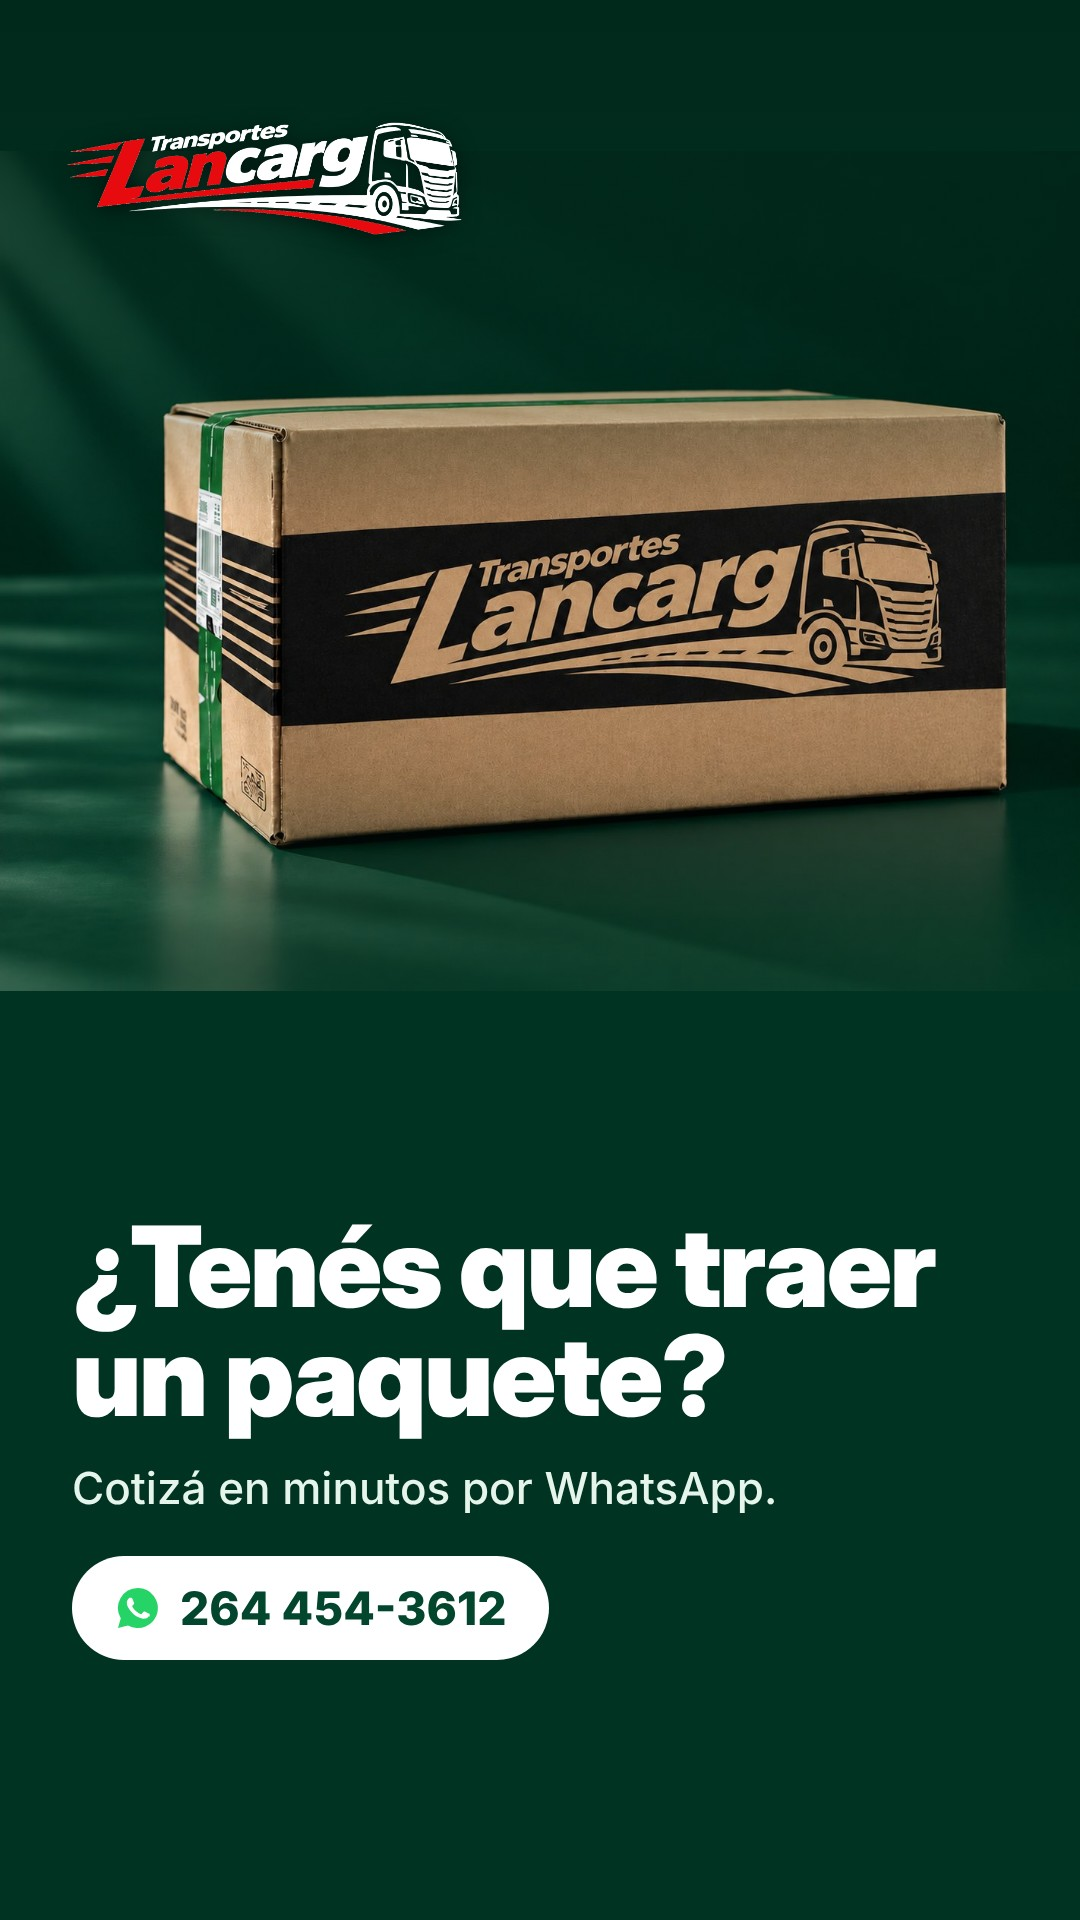
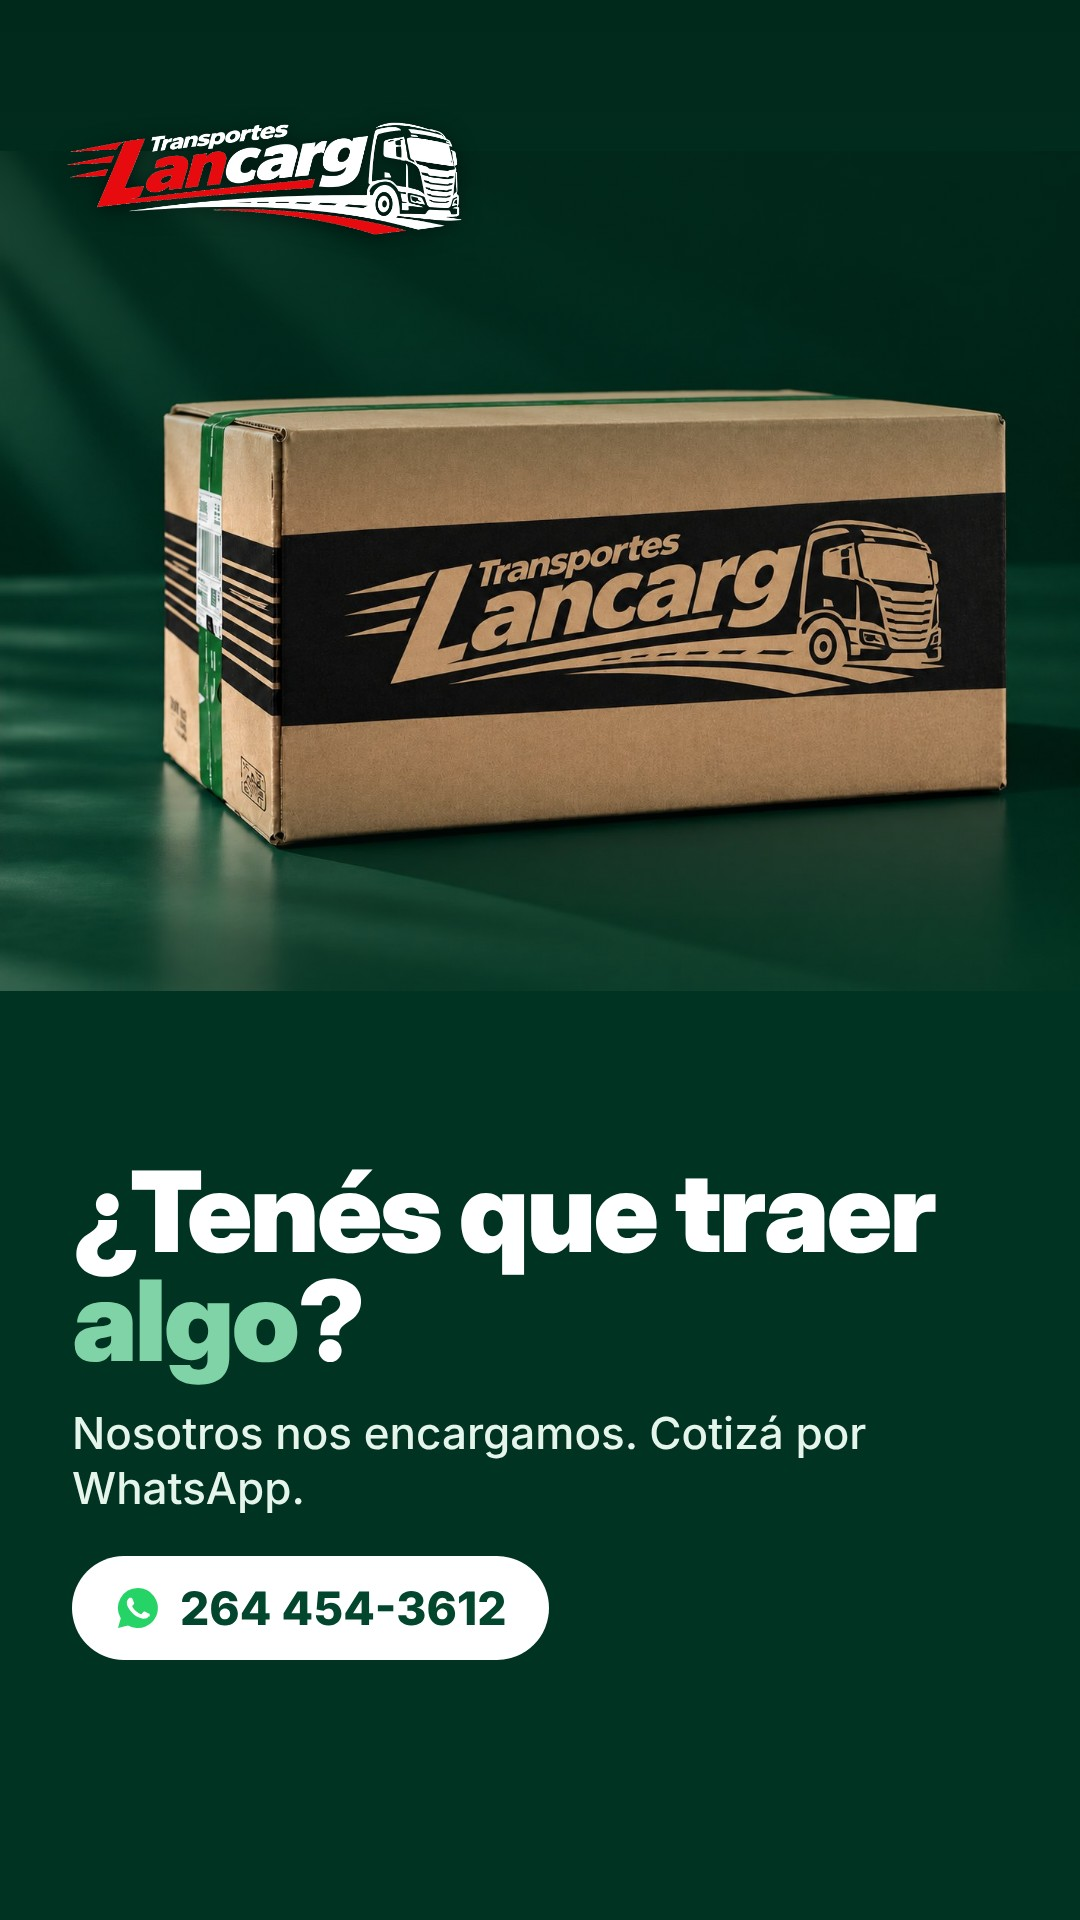
Texto: ¿Tenés que traer algo? / Nosotros nos encargamos
Claude-Session: https://claude.ai/code/session_01VCQyoaPqoNphJ14syEH6Au

Changed region(s): [[0.0611, 0.5938, 0.8861, 0.7812]]

diff --git a/publicaciones/2026-10-20-historias/diseno.html b/publicaciones/2026-10-20-historias/diseno.html
@@ -34,4 +34,4 @@ h2{font-family:"Inter Display",Inter;font-weight:900;font-size:76px;line-height:
 .card .p{font-size:36px;font-weight:700;margin-top:10px;display:flex;align-items:center;gap:12px}
 .mr{display:flex;gap:30px;align-items:flex-start}
 .mito{font-size:44px;font-weight:800;color:#ffb3b5}
-</style></head><body><div class="slide story"><img class="bg" src="../../fotos/camion-scania-al-atardecer-entre-montanas.jpg" style="object-position:50% 40%"><div class="shade "></div><img class="logo" src="../../marca/logo-lancarg-sobre-verde.png"><div class="txt "><div class="kicker">Buenos Aires → San Juan</div><h1>Camiones <em>todos</em> los días.</h1><div class="sub">Tu mercadería no espera.</div></div></div><div class="slide story"><img class="bg" src="../../fotos/caja-de-carton-con-logo-de-transporte-lancarg.jpg" style="object-position:50% 45%;object-fit:contain;object-position:50% 14%"><div class="shade "></div><img class="logo" src="../../marca/logo-lancarg-sobre-verde.png"><div class="txt "><h1>¿Tenés que traer un paquete?</h1><div class="sub">Cotizá en minutos por WhatsApp.</div><div class="pill"><svg width="48" height="48" viewBox="0 0 24 24" fill="#25D366"><path d="M12 2a10 10 0 0 0-8.6 15.1L2 22l5-1.3A10 10 0 1 0 12 2zm5.3 14.1c-.2.6-1.3 1.2-1.8 1.2-.5.1-1 .2-3.3-.7-2.8-1.1-4.5-4-4.7-4.2-.1-.2-1.1-1.5-1.1-2.9s.7-2 1-2.3c.2-.3.5-.3.7-.3h.5c.2 0 .4 0 .6.5l.8 2c.1.2.1.4 0 .5l-.3.5-.4.4c-.1.1-.3.3-.1.6.2.3.8 1.3 1.7 2.1 1.2 1 2.1 1.4 2.4 1.5.3.1.5.1.6-.1l.9-1c.2-.3.4-.2.6-.1l1.9.9c.3.1.5.2.5.3.1.2.1.7-.1 1.4z"/></svg>264 454-3612</div></div></div></body></html>
+</style></head><body><div class="slide story"><img class="bg" src="../../fotos/camion-scania-al-atardecer-entre-montanas.jpg" style="object-position:50% 40%"><div class="shade "></div><img class="logo" src="../../marca/logo-lancarg-sobre-verde.png"><div class="txt "><div class="kicker">Buenos Aires → San Juan</div><h1>Camiones <em>todos</em> los días.</h1><div class="sub">Tu mercadería no espera.</div></div></div><div class="slide story"><img class="bg" src="../../fotos/caja-de-carton-con-logo-de-transporte-lancarg.jpg" style="object-position:50% 45%;object-fit:contain;object-position:50% 14%"><div class="shade "></div><img class="logo" src="../../marca/logo-lancarg-sobre-verde.png"><div class="txt "><h1>¿Tenés que traer <em>algo</em>?</h1><div class="sub">Nosotros nos encargamos. Cotizá por WhatsApp.</div><div class="pill"><svg width="48" height="48" viewBox="0 0 24 24" fill="#25D366"><path d="M12 2a10 10 0 0 0-8.6 15.1L2 22l5-1.3A10 10 0 1 0 12 2zm5.3 14.1c-.2.6-1.3 1.2-1.8 1.2-.5.1-1 .2-3.3-.7-2.8-1.1-4.5-4-4.7-4.2-.1-.2-1.1-1.5-1.1-2.9s.7-2 1-2.3c.2-.3.5-.3.7-.3h.5c.2 0 .4 0 .6.5l.8 2c.1.2.1.4 0 .5l-.3.5-.4.4c-.1.1-.3.3-.1.6.2.3.8 1.3 1.7 2.1 1.2 1 2.1 1.4 2.4 1.5.3.1.5.1.6-.1l.9-1c.2-.3.4-.2.6-.1l1.9.9c.3.1.5.2.5.3.1.2.1.7-.1 1.4z"/></svg>264 454-3612</div></div></div></body></html>

diff --git a/publicaciones/2026-10-21-carrusel-traer-cajas/diseno.html b/publicaciones/2026-10-21-carrusel-traer-cajas/diseno.html
@@ -48,8 +48,8 @@ h1 em{font-style:normal;color:#7fd3a6}
   <img class="logo" src="../../marca/logo-lancarg-sobre-verde.png">
   <div class="txt">
     <div class="kicker">Buenos Aires → San Juan</div>
-    <h1>¿Tenés que traer <em>tus paquetes?</em></h1>
-    <div class="sub"><span class="arrow">→</span>Nosotros los llevamos.</div>
+    <h1>¿Tenés que traer <em>algo?</em></h1>
+    <div class="sub"><span class="arrow">→</span>Nosotros nos encargamos.</div>
   </div>
 </div>
 

diff --git a/plantillas/generar_semana_2026-10-20.py b/plantillas/generar_semana_2026-10-20.py
@@ -75,7 +75,7 @@ def write(folder, slides):
 H = {
  "2026-10-20-historias": [
    story("camion-scania-al-atardecer-entre-montanas", '<div class="kicker">Buenos Aires → San Juan</div><h1>Camiones <em>todos</em> los días.</h1><div class="sub">Tu mercadería no espera.</div>', "50% 40%"),
-   story("caja-de-carton-con-logo-de-transporte-lancarg", '<h1>¿Tenés que traer un paquete?</h1><div class="sub">Cotizá en minutos por WhatsApp.</div>' + WAPILL, "50% 45%"),
+   story("caja-de-carton-con-logo-de-transporte-lancarg", '<h1>¿Tenés que traer <em>algo</em>?</h1><div class="sub">Nosotros nos encargamos. Cotizá por WhatsApp.</div>' + WAPILL, "50% 45%"),
  ],
  "2026-10-21-historias": [
    story("deposito-bsas-con-cajas", '<div class="kicker">Comercios</div><h1>¿Comprás en <em>Flores</em> u <em>Once</em>?</h1><div class="sub">Lo dejás en nuestras receptorías y te lo traemos a San Juan.</div>'),
